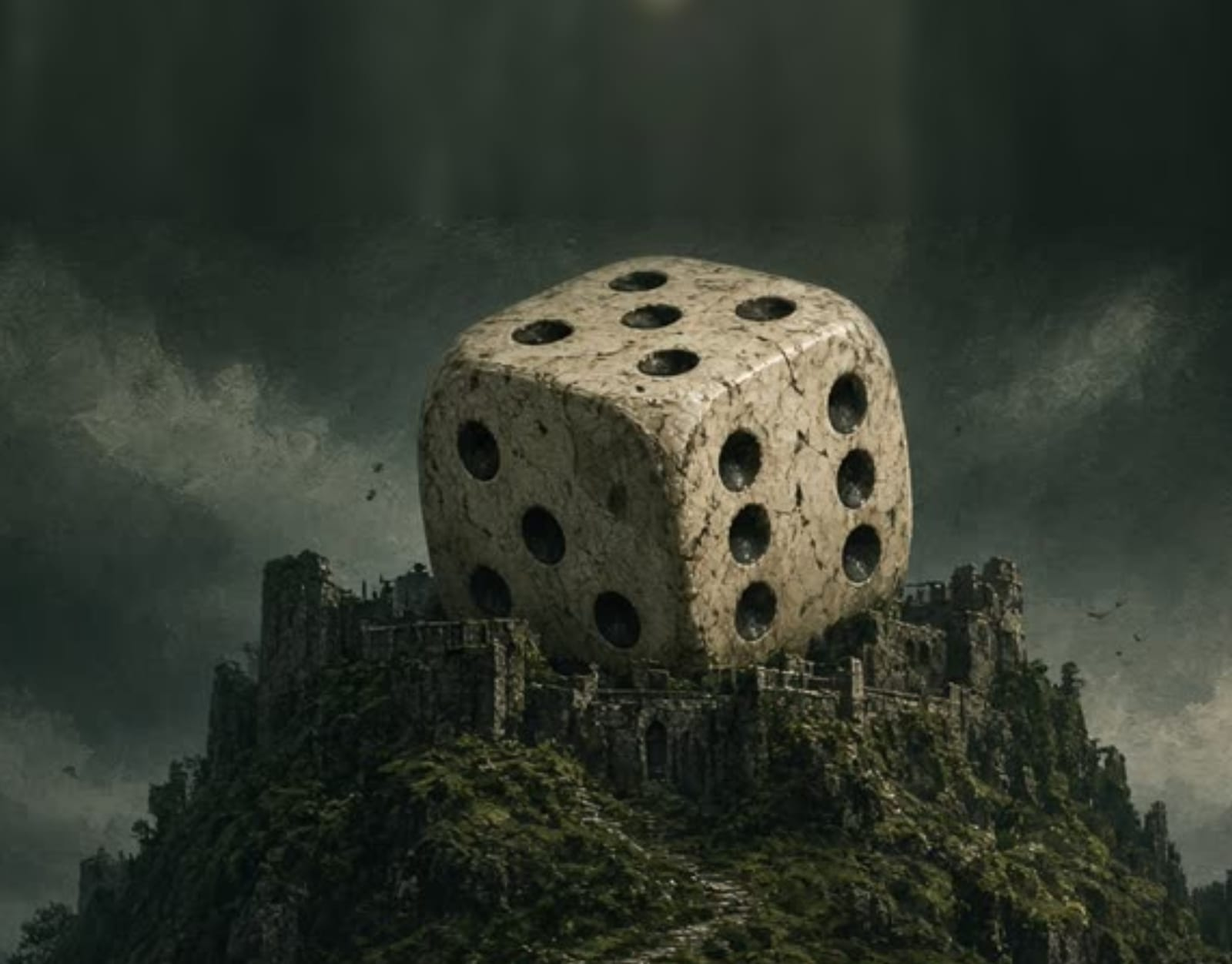
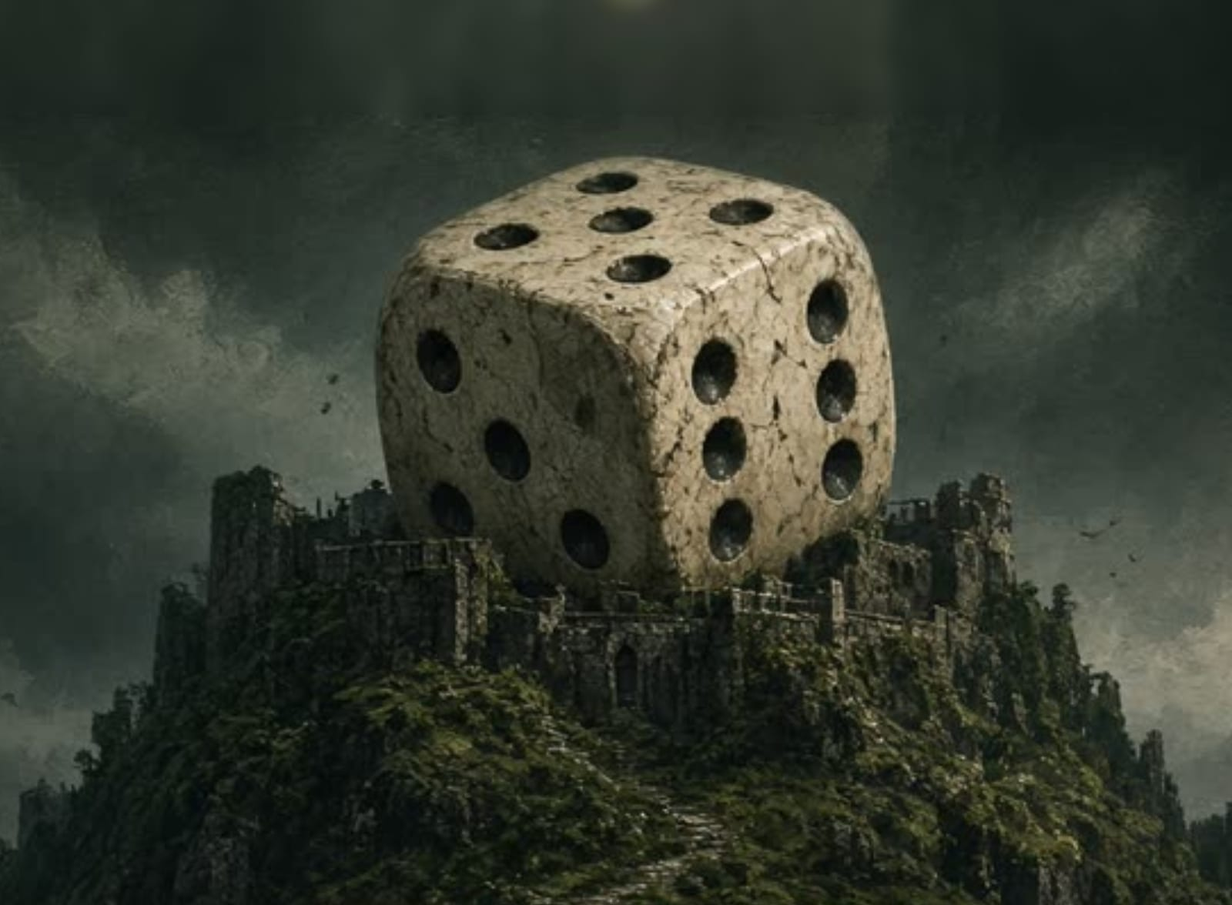
로비를 싱글·멀티·상점 허브로 개편, 키아트 먼저 받고 로딩, 세로 키아트 중앙 정렬·하단 페이드, 가로 배경 두 겹, 제목 윤곽 방식 변경, 배속 버튼 글자 겹침·아이콘 지연 수정
- 로비 허브: 싱글플레이 · 멀티플레이 · 상점 세 버튼(+젬). 누르면 같은 상자 안에서 갈래가 펼쳐진다 — 싱글(인피니티 도전·무한·스테이지 선택·기록),
  멀티(#mp-block). ← 버튼·Esc·앱 뒤로가기는 갈래 → 허브. 돌아올 때는 온 곳의 갈래(결과·스테이지 → 싱글, 대기실·관전 → 멀티). 가로 로비의 두 열 grid 제거
- 로딩: <link rel=preload> 로 화면 비율에 맞는 키아트를 스크립트보다 먼저 받고, game.js 는 그 그림이 뜬 뒤(최대 4초) 에셋 로딩을 시작한다 (그 전엔 진행 막대 숨김)
- 세로 키아트: 제목·주사위가 그림 중앙에 오도록 왼쪽을 더 잘라내고, 위는 하늘 520px, 아래는 거울·블러 대신 바닥색 → 어둠 페이드 400px (1400×2131)
- 가로 키아트: 그림을 높이에 맞춰 통째로(auto 100%) + 양옆은 같은 그림을 흐리고 어둡게 한 2KB 밑바탕(-l-blur). 돌 제목 위 30px 에서 잘라 글자가 비치지 않게
- 제목 윤곽: -webkit-text-stroke(도현체 획 겹침마다 선이 보임) → 사방 1px drop-shadow
- 배속 버튼: 그림 아이콘이 있으면 x1·x2·x3 글자를 화면 폭과 무관하게 숨긴다(#stage.small/tiny 가 font-size 를 되살렸다). 아이콘 23장을 부팅 때 미리 받아 x2 전환 순간 비지 않게
- 테스트 훅 DKlobbyView(view), 캐시버스트 v88, GAME-SPEC 갱신

Claude-Session: https://claude.ai/code/session_01CPtyjXTAGa9quHxiVhte98

diff --git a/game.js b/game.js
@@ -946,7 +946,11 @@ async function loadAssets(onProgress) {
     await new Promise(r => setTimeout(r, 0));
   }
   A.dice = [A.d1, A.d2, A.d3, A.d4, A.d5, A.d6];
-  if (A.uiFrame && !A.uiFrame.missing && A.uiFrame.w > 8) document.body.classList.add('ui-art');   // HUD 프레임 그림이 있으면 CSS 가 border-image 를 쓴다
+  if (A.uiFrame && !A.uiFrame.missing && A.uiFrame.w > 8) {
+    document.body.classList.add('ui-art');   // 그림 아이콘(ui/icon-*.png) 사용
+    // CSS 배경 아이콘은 처음 쓰일 때 받는다 → 배속을 x2 로 바꾸는 순간 아이콘이 잠깐 비었다. 전부 미리 받아 둔다 (23장, 장당 ~5KB)
+    window.__iconCache = ['speed1', 'speed2', 'speed3', 'sound', 'mute', 'chat', 'menu', 'close', 'back', 'gear', 'help', 'chest', 'sell', 'enhance', 'trophy', 'infinity', 'users', 'shop', 'stage', 'copy', 'gem', 'dice', 'wave'].map((n) => { const im = new Image(); im.src = BASE + 'ui/icon-' + n + '.png'; return im; });
+  }
   // 아레나 등 배경이 아직 없는 맵은 지정된 다른 맵 배경으로 폴백
   if (window.DKCONTENT) for (const m of DKCONTENT.maps) {
     if (m.fallbackKey && (!A[m.key] || A[m.key].missing) && A[m.fallbackKey]) A[m.key] = A[m.fallbackKey];
@@ -4195,7 +4199,18 @@ function wakeLockSync(on) {
   } catch (e) { /* 무시 */ }
 }
 document.addEventListener('visibilitychange', () => { if (!document.hidden && S.phase === 'playing') wakeLockSync(true); });
-function gotoLobby() { S.phase = 'lobby'; showScreen('lobby'); }
+// 로비는 허브(싱글·멀티·상점) 아래 갈래(single/multi)가 같은 상자 안에서 펼쳐진다. 어디서 돌아왔는지에 따라 그 갈래를 바로 연다
+let LOBBY_VIEW = 'hub';
+function lobbyShow(view) {
+  view = view === 'single' || view === 'multi' ? view : 'hub';
+  LOBBY_VIEW = view;
+  for (const v of ['hub', 'single', 'multi']) { const el = $('lobby-' + v); if (el) el.classList.toggle('hidden', v !== view); }
+  const box = $('lobby-box'); if (box) box.dataset.view = view;
+  const back = $('lobby-back'); if (back) back.classList.toggle('hidden', view === 'hub');
+  const h = $('lobby-title'); if (h) h.textContent = view === 'single' ? '싱글플레이' : view === 'multi' ? '멀티플레이' : '주사위 성채';
+  const box2 = document.querySelector('#lobby .screen-box'); if (box2) box2.scrollTop = 0;
+}
+function gotoLobby(view) { S.phase = 'lobby'; showScreen('lobby'); lobbyShow(view || 'hub'); }
 function gotoMpRoom() { S.phase = 'mpRoom'; showScreen('mpRoom'); }
 function gotoStageSelect() { S.phase = 'stageSelect'; showScreen('stageSelect'); }
 function gotoShop() { S.phase = 'shop'; showScreen('shop'); }
@@ -4866,6 +4881,7 @@ document.addEventListener('keydown', ev => {
   else if (S.mode === 'infinity' && ev.key >= '1' && ev.key <= '6') upgradeFace(parseInt(ev.key, 10));
   else if (ev.key === 'Escape') {
     if (settingsOpen()) { closeSettings(); return; }
+    if (S.phase === 'lobby' && LOBBY_VIEW !== 'hub') { lobbyShow('hub'); return; }
     const help = $('inf-help');
     if (help && !help.classList.contains('hidden')) { closeInfHelp(); return; } // 도움말이 열려 있으면 먼저 닫는다
     if (menuOpen()) { closeMenu(); return; }
@@ -4926,6 +4942,7 @@ window.DKAPP = {
     if (S.phase === 'stageSelect' || S.phase === 'shop') { const b = document.querySelector(`#${S.phase === 'shop' ? 'shop' : 'stage-select'} .back-btn`); if (b) b.click(); return true; }
     if (S.phase === 'mpRoom') { $('mp-leave').click(); return true; }
     if (S.phase === 'title' || S.phase === 'over' || S.phase === 'win' || S.phase === 'stageClear') { $('ov-btn').click(); return true; }
+    if (S.phase === 'lobby' && LOBBY_VIEW !== 'hub') { lobbyShow('hub'); return true; }   // 갈래 → 허브, 허브에서는 앱 종료(두 번)
     return false;
   },
 };
@@ -4947,7 +4964,7 @@ $('ov-btn').addEventListener('click', () => {
   if (S.phase === 'loading') return;
   audio();
   if (S.phase === 'over' || S.phase === 'win' || S.phase === 'stageClear') {
-    if (S.mode === 'infinity') { if (S.net) mpLeave(); S.mode = 'stage'; S.inf = null; gotoLobby(); } else gotoStageSelect();
+    if (S.mode === 'infinity') { const wasNet = !!S.net; if (S.net) mpLeave(); S.mode = 'stage'; S.inf = null; gotoLobby(wasNet ? 'multi' : 'single'); } else gotoStageSelect();
     return;
   }
   // 타이틀 → 로비 (?start=inf 이면 바로 인피니티, 새로고침 전 방이 있으면 그 방으로)
@@ -4976,8 +4993,11 @@ if ($('enhance-btn')) $('enhance-btn').addEventListener('click', () => {
 });
 if ($('info-close')) $('info-close').addEventListener('click', () => { audio(); S.selTower = null; syncUI(); });
 $('btn-shop').addEventListener('click', () => { audio(); gotoShop(); });
-$('ss-back').addEventListener('click', () => gotoLobby());
-$('shop-back').addEventListener('click', () => gotoLobby());
+$('ss-back').addEventListener('click', () => gotoLobby('single'));
+$('shop-back').addEventListener('click', () => gotoLobby('hub'));
+$('hub-single').addEventListener('click', () => { audio(); lobbyShow('single'); });
+$('hub-multi').addEventListener('click', () => { audio(); lobbyShow('multi'); });
+$('lobby-back').addEventListener('click', () => { audio(); lobbyShow('hub'); });
 // 어두운 배경을 누르면 로비로 (상점에 갇히지 않게)
 ['shop', 'stage-select'].forEach((id) => {
   const el = $(id);
@@ -5009,7 +5029,7 @@ function openMenu() {
 function closeMenu() { $('menu').classList.add('hidden'); setPaused(false); }
 function quitToMenu() {
   closeMenu();
-  if (S.phase === 'spectate') { mpLeave(); S.mode = 'stage'; S.inf = null; gotoLobby(); return; }   // 관전 중 나가기 (기록은 이미 저장됨)
+  if (S.phase === 'spectate') { mpLeave(); S.mode = 'stage'; S.inf = null; gotoLobby('multi'); return; }   // 관전 중 나가기 (기록은 이미 저장됨)
   if (S.phase !== 'playing') return;
   if (S.mode === 'infinity') { S.inf.quit = true; endInfinity(); return; }   // 포기 = 런 종료 (기록 저장)
   gotoStageSelect();
@@ -5569,7 +5589,7 @@ function mpOnClosed(m) {
   const code = m && m.code;
   if (code === 4000) return;                                        // 내가 나간 것 (mpLeave)
   const why = code === 4001 ? '다른 탭에서 같은 좌석으로 들어와 이 탭의 연결이 끊겼습니다' : mpErrText({ code: (m && typeof m.reason === 'string' && m.reason) || CLOSE_CODE_NAME[code] });
-  if (S.phase === 'mpRoom') { mpLeave(); gotoLobby(); mpStatus(why, true); return; }
+  if (S.phase === 'mpRoom') { mpLeave(); gotoLobby('multi'); mpStatus(why, true); return; }
   if (S.net && (S.phase === 'playing' || S.phase === 'spectate')) mpDisconnected(code);
 }
 
@@ -5610,7 +5630,7 @@ function mpInit() {
   $('mp-join').addEventListener('click', () => { audio(); const f = $('mp-join-form'); f.classList.toggle('hidden'); if (!f.classList.contains('hidden')) $('mp-code').focus(); });
   $('mp-join-form').addEventListener('submit', (ev) => { ev.preventDefault(); mpJoin($('mp-code').value); });
   $('mp-code').addEventListener('input', () => { const el = $('mp-code'); el.value = el.value.toUpperCase().replace(/[^A-Z0-9]/g, '').slice(0, 6); });
-  $('mp-leave').addEventListener('click', () => { audio(); mpLeave(); gotoLobby(); });
+  $('mp-leave').addEventListener('click', () => { audio(); mpLeave(); gotoLobby('multi'); });
   $('mp-copy').addEventListener('click', async () => {
     const code = N.code || '';
     try { await navigator.clipboard.writeText(code); $('mp-copy').textContent = '복사됨'; setTimeout(() => { $('mp-copy').textContent = '복사'; }, 1200); }
@@ -5619,7 +5639,7 @@ function mpInit() {
   $('mp-start').addEventListener('click', () => { audio(); if (!N.start()) mpStatus('시작할 수 없습니다', true); });
   $('spec-collapse').addEventListener('click', () => mpSpectateCollapse(true));
   $('spec-pill').addEventListener('click', () => mpSpectateCollapse(false));
-  $('spec-leave').addEventListener('click', () => { audio(); mpLeave(); S.mode = 'stage'; S.inf = null; gotoLobby(); });
+  $('spec-leave').addEventListener('click', () => { audio(); mpLeave(); S.mode = 'stage'; S.inf = null; gotoLobby('multi'); });
   N.on('room', mpOnRoom); N.on('player', mpOnPlayer); N.on('start', mpOnStart);
   N.on('sum', mpOnSum); N.on('end', mpOnEnd); N.on('err', mpOnErr); N.on('net:state', mpOnState); N.on('net:closed', mpOnClosed);
   N.on('watched', mpOnWatched); N.on('queued', mpOnQueued); N.on('matched', mpOnMatched);
@@ -5672,12 +5692,17 @@ function drawLoading(pr) {
 (async () => {
   // 키아트는 로딩 첫 프레임부터 깔린다 (CSS 가 직접 받아온다 — 에셋 로딩을 기다리면 로딩 화면이 검은 화면이 된다)
   // 키아트(산 위 주사위 성)는 CSS 배경으로만 쓴다 — SRCS 에 넣으면 loadAssets 가 두 방향을 다 내려받는다. CSS 는 미디어 쿼리에 맞는 한 장만 받는다
-  const KEYART = { l: BASE + 'ui/title-keyart-l.jpg', p: BASE + 'ui/title-keyart-p.jpg' };   // l: 제목 없는 윗부분(CSS 제목을 얹는다) · p: 그림 안의 돌 제목까지
+  const KEYART = { l: BASE + 'ui/title-keyart-l.jpg', p: BASE + 'ui/title-keyart-p.jpg', blur: BASE + 'ui/title-keyart-l-blur.jpg' };   // l: 제목 없는 윗부분(CSS 제목을 얹는다) · p: 그림 안의 돌 제목까지 · blur: 가로 양옆 밑바탕
   document.body.style.setProperty('--keyart-bg', `linear-gradient(rgba(5,4,3,.45), rgba(5,4,3,.7)), url('${KEYART.l}')`);
-  document.body.style.setProperty('--keyart-title', `linear-gradient(rgba(5,4,3,.10), rgba(5,4,3,.10) 45%, rgba(5,4,3,.82) 100%), url('${KEYART.l}')`);      // 가로·데스크톱 타이틀: 그림 위에 CSS 제목, 아래만 어둡게
+  document.body.style.setProperty('--keyart-title', `linear-gradient(rgba(5,4,3,.10), rgba(5,4,3,.10) 45%, rgba(5,4,3,.82) 100%), url('${KEYART.l}'), url('${KEYART.blur}')`);   // 가로·데스크톱 타이틀: 그림을 높이에 맞춰 통째로 + 양옆은 흐린 밑바탕, 위에 CSS 제목
   document.body.style.setProperty('--keyart-title-p', `linear-gradient(rgba(5,4,3,.04), rgba(5,4,3,.04) 80%, rgba(5,4,3,.55) 100%), url('${KEYART.p}')`);   // 세로 타이틀: 그림의 돌 제목을 그대로, 맨 아래(버튼 자리)만 살짝
   drawLoading(0);
   $('ov-btn').disabled = true;
+  // 키아트가 화면에 뜬 뒤에 에셋 로딩을 시작한다 — 800장 넘는 PNG 요청과 섞이면 폰에서 배경이 한참 검게 남았다. (실패·지연은 4초에서 끊고 진행)
+  { const box = $('overlay-box'); if (box) box.classList.add('preload');
+    const portrait = window.matchMedia && matchMedia('(max-aspect-ratio: 3/4)').matches;
+    await new Promise((res) => { const im = new Image(); let done = false; const fin = () => { if (!done) { done = true; res(); } }; im.onload = () => { (im.decode ? im.decode().catch(() => {}) : Promise.resolve()).then(fin); }; im.onerror = fin; im.src = portrait ? KEYART.p : KEYART.l; setTimeout(fin, 4000); });
+    if (box) box.classList.remove('preload'); }
   try {
     await loadAssets(pr => drawLoading(pr));
   } catch (e) {
@@ -5726,6 +5751,7 @@ function drawLoading(pr) {
   window.DKNETLOG = window.DKNET && DKNET._debug;   // 멀티 소켓 로그
   window.DKplace = tryPlace;                      // 보유 주사위를 석단 idx 에 놓기
   window.DKend = gameEnd;                         // 결과 화면 (레이아웃 테스트)
+  window.DKlobbyView = lobbyShow;                  // 로비 갈래 열기 (테스트: 'hub' | 'single' | 'multi')
   window.DKlobby = () => { if (S.net) mpLeave(); closeInfHelp(); closeSettings(); if (COACH.on) coachStop(false); S.mode = 'stage'; S.inf = null; S.selTower = null; S.heldDie = 0; DIE.state = 'tray'; SLOT.active = false; gotoLobby(); fitStage(); };   // 레이아웃 테스트: 어느 화면에서든 로비로
   window.DKacquire = acquireFx;                   // 획득 연출 미리보기 (콘솔: DKacquire(20))
   window.DKsync = syncUI;

diff --git a/style.css b/style.css
@@ -236,10 +236,12 @@ body { touch-action: manipulation; }
 #ov-btn { font-size: 20px; padding: 12px 44px; letter-spacing: 2px; flex-shrink: 0; min-height: 48px; align-self: center; }
 #ov-btn:disabled { opacity: .7; cursor: default; }
 /* 타이틀·로딩: 상자 없이 키아트 위에 제목·진행 막대·시작 버튼만 (아래쪽 1/4) */
-#overlay.title { background-image: var(--keyart-title, var(--keyart-bg, none)); background-color: #0d0b09; background-position: center 30%; }
+/* 가로·데스크톱: 그림을 높이에 맞춰 통째로 보이고(auto 100%), 남는 양옆은 같은 그림을 흐리고 어둡게 한 밑바탕(-l-blur)으로 채운다 */
+#overlay.title { background-image: var(--keyart-title, var(--keyart-bg, none)); background-color: #0d0b09; background-size: auto, auto 100%, cover; background-position: center, center, center; background-repeat: no-repeat; }
+#overlay-box.preload #ov-load { visibility: hidden; }   /* 키아트가 뜨기 전에는 진행 막대를 숨긴다 (그림 → 막대 순) */
 /* 세로 폰·태블릿(가로:세로 ≤ 3:4): 제목 글자가 새겨진 세로 키아트를 쓰고 CSS 제목·부제는 숨긴다 (그림의 돌 제목이 제목) */
 @media (max-aspect-ratio: 3/4) {
-  #overlay.title { background-image: var(--keyart-title-p, var(--keyart-title, var(--keyart-bg, none))); background-position: center; }
+  #overlay.title { background-image: var(--keyart-title-p, var(--keyart-title, var(--keyart-bg, none))); background-size: cover; background-position: center; }
   #overlay #overlay-box.title #ov-title, #overlay #overlay-box.title #ov-sub { display: none; }   /* 뒤에 오는 '#overlay-box.title #ov-sub {display:flex}' 보다 우선 */
   #overlay #overlay-box.title { padding-bottom: max(5vh, 22px); }   /* 뒤의 '#overlay-box.title {padding: …}' 보다 우선 */
 }
@@ -248,15 +250,18 @@ body { touch-action: manipulation; }
    아래에 작은 영문 부제와 금선. 그라데이션 글자(.wm)와 그림자 필터(h1)를 분리한다 — WebKit 에서 filter 가 background-clip:text 를 깨는 문제 회피.
    기본 #ov-title 의 text-shadow 는 반드시 끈다: 투명 글자 위로 그림자가 비쳐 글자 아랫부분이 검게 탁해진다 */
 #overlay-box.title #ov-title {
-  font-size: clamp(46px, 11vw, 88px); letter-spacing: 6px; line-height: 1.08; margin: 0 0 6px; padding: 0 6px 6px;
+  font-size: clamp(46px, 11vw, 88px); letter-spacing: 6px; line-height: 1.08; margin: 0 0 6px; padding: 0 8px 8px;
   color: #f5d470; text-shadow: none;
-  filter: drop-shadow(0 2px 0 #4a2c0c) drop-shadow(0 2px 0 #2e1c0a) drop-shadow(0 1px 0 #150c04) drop-shadow(0 6px 6px rgba(0,0,0,.55)) drop-shadow(0 0 3px rgba(232,182,74,.28));
+  /* 윤곽은 text-stroke 가 아니라 사방 1px 그림자로 — text-stroke 는 글꼴 획이 겹치는 자리마다 선이 보인다(도현체) */
+  filter: drop-shadow(1px 0 0 #2c1705) drop-shadow(-1px 0 0 #2c1705) drop-shadow(0 1px 0 #2c1705) drop-shadow(0 -1px 0 #2c1705)
+          drop-shadow(0 2px 0 #4a2c0c) drop-shadow(0 2px 0 #2e1c0a) drop-shadow(0 1px 0 #150c04)
+          drop-shadow(0 6px 6px rgba(0,0,0,.55)) drop-shadow(0 0 3px rgba(232,182,74,.28));
 }
 #overlay-box.title #ov-title .wm {
   display: inline-block;
   background: linear-gradient(180deg, #fffdf0 0%, #fbeeb8 16%, #f5d470 26%, #fffbe6 30%, #fffbe6 34%, #f3c650 39%, #e2a63a 56%, #b8802a 76%, #6f4712 100%);
   -webkit-background-clip: text; background-clip: text; color: transparent; -webkit-text-fill-color: transparent;
-  -webkit-text-stroke: 1.5px #2c1705; text-shadow: none;
+  text-shadow: none;
 }
 #ov-sub { display: none; }
 #overlay-box.title #ov-sub {
@@ -270,7 +275,7 @@ body { touch-action: manipulation; }
 #overlay-box.title #ov-load { width: min(300px, 72%); margin-bottom: 10px; }
 #overlay-box.title #ov-load-track { height: 8px; background: rgba(10,7,4,.7); }
 #overlay-box.title #ov-load-txt { font-size: 12px; color: #e9dcc0; text-shadow: 0 1px 0 #000; }
-@media (max-height: 460px) { #overlay-box.title #ov-title { font-size: clamp(30px, 7.5vw, 48px); letter-spacing: 3px; } #overlay-box.title #ov-title .wm { -webkit-text-stroke-width: 1px; } #overlay-box.title #ov-sub { margin-bottom: 8px; } #overlay-box.title { padding-bottom: 12px; } }
+@media (max-height: 460px) { #overlay-box.title #ov-title { font-size: clamp(30px, 7.5vw, 48px); letter-spacing: 3px; } #overlay-box.title #ov-sub { margin-bottom: 8px; } #overlay-box.title { padding-bottom: 12px; } }
 
 
 /* ---- 스타크래프트식 로그·채팅 (스테이지 위 오버레이) ---- */
@@ -1125,6 +1130,19 @@ table.rank tr.me td:first-child { color: var(--gold); font-weight: bold; }
 .settings-card code { color: #ffd6a0; }
 .icon-btn { width: 40px; min-height: 40px; padding: 0; font-size: 20px; line-height: 1; display: inline-flex; align-items: center; justify-content: center; }
 #lobby-settings { position: absolute; top: 10px; right: 10px; z-index: 2; }
+#lobby-back { position: absolute; top: 10px; left: 10px; z-index: 2; }
+/* 로비 허브·갈래: 같은 상자 안에서 한 갈래씩 보인다 */
+.lobby-view { display: flex; flex-direction: column; gap: 6px; min-height: 0; }
+.lobby-view.hidden { display: none; }
+.hub-btns { flex-direction: column; gap: 12px; margin-top: 6px; }
+.hub-btns .big-btn { flex: 1 1 auto; width: 100%; min-height: 76px; font-size: 21px; padding: 14px 18px; letter-spacing: 1px; }
+.hub-btns .big-btn .bi { width: 32px; height: 32px; font-size: 24px; margin-right: 6px; }
+.hub-btns .big-btn small { font-size: 12px; margin-top: 2px; }
+#lobby-hub .gem-chip.big { margin-top: 14px; }
+#lobby-box[data-view=single] h1, #lobby-box[data-view=multi] h1 { font-size: 26px; letter-spacing: 2px; }
+#lobby-single .inf-btns { margin-top: 4px; }
+#lobby-single .lobby-btns .lobby-inf-btn { margin-top: 4px; }
+#lobby-multi #mp-block { margin-top: 4px; }
 #lobby .screen-box { position: relative; }
 #toast { position: fixed; left: 50%; bottom: calc(max(16px, var(--sa-b)) + 24px); transform: translateX(-50%); z-index: 70; padding: 10px 18px; background: rgba(20,14,8,.94); border: 1px solid var(--gold); border-radius: var(--r-pill); color: var(--ink-1); font-size: 14px; white-space: nowrap; box-shadow: var(--elev-2); pointer-events: none; animation: logIn .16s ease-out; }
 #toast.hidden { display: none; }
@@ -1157,7 +1175,7 @@ button, .inf-face, .mini button, .rival, .chip { -webkit-tap-highlight-color: tr
    body.ui-art #hud { border: 12px solid transparent; border-image: url(ui/frame-panel.png) 24 fill / 12px stretch; }
    body.ui-art .big-btn { border: 10px solid transparent; border-image: url(ui/btn-gold.png) 16 fill / 10px stretch; } */
 /* 주사위 슬롯 받침 그림(ui/slot-socket.png)은 쓰지 않는다 — 보류 상태에서 주사위가 받침에 묻혀 안 보였다. CSS 슬롯이 최종 */
-body.ui-art .mini button[data-icon] { background-position: center; background-size: 22px 22px; background-repeat: no-repeat; font-size: 0; }
+body.ui-art .mini button[data-icon] { background-position: center; background-size: 22px 22px; background-repeat: no-repeat; font-size: 0 !important; color: transparent; }   /* !important: #stage.small/tiny 의 font-size 가 이겨 폰에서 x1·x2 글자가 아이콘과 겹쳤다 */
 body.ui-art .mini button[data-icon] svg { display: none; }
 body.ui-art .bi[data-icon] { font-size: 0; background-position: center; background-size: contain; background-repeat: no-repeat; }
 body.ui-art #help-btn { font-size: 0; background: url(ui/icon-help.png) center / 22px 22px no-repeat; border: 0; box-shadow: none; }
@@ -1232,18 +1250,15 @@ body.ui-art .icon-btn[data-icon] { font-size: 0; background-position: center; ba
 
 /* ---- 로비 가로형 (폰 가로: 넓고 낮은 화면) — 스크롤 대신 좌우 두 열로 ---- */
 @media (min-aspect-ratio: 4/3) and (max-height: 640px) {
-  #lobby .screen-box {
-    width: min(96%, 980px); max-width: none;
-    display: grid; grid-template-columns: minmax(0, 1fr) minmax(0, 1.15fr); grid-auto-rows: max-content; align-content: safe center;   /* 넘치면 위부터 스크롤 (center 는 위가 잘린다) */
-    column-gap: 18px; row-gap: 4px; padding: 8px 16px 8px; overflow-y: auto;
-  }
-  #lobby .screen-box > * { grid-column: 1; }
-  #lobby .screen-box > #mp-block { grid-column: 2; grid-row: 1 / span 12; align-self: center; margin-top: 0; }
-  #lobby .screen-box > #lobby-settings { grid-column: auto; }
-  #lobby .lobby-sep { display: none; }
+  #lobby .screen-box { width: min(96%, 900px); max-width: none; padding: 8px 16px 8px; overflow-y: auto; }
+  .hub-btns { flex-direction: row; gap: 10px; margin-top: 4px; }
+  .hub-btns .big-btn { flex: 1 1 180px; width: auto; min-height: 64px; font-size: 17px; padding: 8px 10px; }
+  .hub-btns .big-btn .bi { width: 26px; height: 26px; }
+  #lobby-hub .gem-chip.big { margin-top: 6px; }
+  #lobby-single .lobby-btns .lobby-inf-btn { width: auto; flex: 1 1 200px; }
+  #lobby-single .lobby-btns:not(.inf-btns) { flex-direction: row; }
   #lobby h1 { font-size: 22px; margin-bottom: 0; line-height: 1.1; }
   #lobby .screen-sub { margin: 0 0 4px; font-size: 12px; }
-  #lobby .screen-box > p.screen-sub { display: none; }   /* 소개 문장은 세로에서만 */
   #lobby-inf { display: -webkit-box; -webkit-line-clamp: 2; -webkit-box-orient: vertical; overflow: hidden; }
   #lobby-progress { display: -webkit-box; -webkit-line-clamp: 1; -webkit-box-orient: vertical; overflow: hidden; }
   #lobby .inf-btns { margin-top: 0; }

diff --git a/index.html b/index.html
@@ -7,8 +7,11 @@
 <meta name="apple-mobile-web-app-capable" content="yes" />
 <meta name="mobile-web-app-capable" content="yes" />
 <title>주사위 성채 (Dicekeep)</title>
-<link rel="stylesheet" href="fonts/fonts.css?v=87" />
-<link rel="stylesheet" href="style.css?v=87" />
+<link rel="stylesheet" href="fonts/fonts.css?v=88" />
+<!-- 키아트를 스크립트보다 먼저 받기 시작한다 (세로/가로 중 화면에 맞는 한 장). game.js 는 이 그림이 뜬 뒤에 에셋 로딩을 시작한다 -->
+<link rel="preload" as="image" href="ui/title-keyart-p.jpg" media="(max-aspect-ratio: 3/4)" fetchpriority="high" />
+<link rel="preload" as="image" href="ui/title-keyart-l.jpg" media="(min-aspect-ratio: 3/4)" fetchpriority="high" />
+<link rel="stylesheet" href="style.css?v=88" />
 <link rel="icon" href="ui/gold.png" />
 </head>
 <body>
@@ -52,36 +55,47 @@
     </div>
 
     <div id="lobby" class="screen hidden">
-      <div class="screen-box">
+      <div class="screen-box" id="lobby-box" data-view="hub">
+        <button id="lobby-back" class="back-btn icon-btn hidden" type="button" title="뒤로" aria-label="뒤로" data-icon="back">&#8592;</button>
         <button id="lobby-settings" class="back-btn icon-btn" type="button" title="설정" aria-label="설정" data-icon="gear">&#9881;</button>
-        <h1>주사위 성채</h1>
-        <div class="lobby-btns inf-btns">
-          <button id="btn-inf-clear" class="big-btn primary lobby-inf-btn"><span class="bi" data-icon="trophy">&#127942;</span>인피니티 · 도전<small>101웨이브 완주 = 클리어</small></button>
-          <button id="btn-infinity" class="big-btn inf lobby-inf-btn"><span class="bi" data-icon="infinity">&#8734;</span>인피니티 · 무한<small>끝이 없는 기록 도전</small></button>
-        </div>
-        <div id="lobby-inf" class="screen-sub inf-sub"></div>
-        <!-- 함께하기: 각자 보드, 각자 속도. 서버(Cloudflare Worker + Durable Object)가 방·중계·순위만 맡는다 -->
-        <div id="mp-block">
-          <div class="mp-head"><span class="bi" data-icon="users">&#128101;</span>인피니티 · 함께 <small>2~4인 · 각자 자기 판 · 먼저 완주하면 1위</small></div>
-          <div class="mp-row"><label for="mp-name">이름</label><input id="mp-name" type="text" maxlength="12" placeholder="플레이어" autocomplete="nickname" spellcheck="false"></div>
-          <div class="lobby-btns mp-btns">
-            <button id="mp-create" class="big-btn inf"><span class="bi" data-icon="users">&#128101;</span>방 만들기<small>친구에게 코드 공유</small></button>
-            <button id="mp-join" class="big-btn"><span class="bi" data-icon="enter">&#128273;</span>코드로 참가<small>6자리</small></button>
-            <button id="mp-quick" class="big-btn"><span class="bi" data-icon="speed3">&#9889;</span>빠른 매칭<small>2명 이상 10초 · 4명 즉시</small></button>
+        <h1 id="lobby-title">주사위 성채</h1>
+        <!-- 허브: 싱글 · 멀티 · 상점 세 갈래. 누르면 같은 상자 안에서 그 갈래의 메뉴가 펼쳐진다 (← 또는 뒤로가기 = 허브) -->
+        <div id="lobby-hub" class="lobby-view">
+          <div class="lobby-btns hub-btns">
+            <button id="hub-single" class="big-btn primary"><span class="bi" data-icon="dice">&#127922;</span>싱글플레이<small>인피니티 · 스테이지 50</small></button>
+            <button id="hub-multi" class="big-btn"><span class="bi" data-icon="users">&#128101;</span>멀티플레이<small>2~4인 인피니티 · 먼저 완주하면 1위</small></button>
+            <button id="btn-shop" class="big-btn"><span class="bi" data-icon="shop">&#128722;</span>상점<small>젬 상점</small></button>
           </div>
-          <form id="mp-join-form" class="hidden" autocomplete="off">
-            <input id="mp-code" type="text" maxlength="6" autocapitalize="characters" inputmode="latin" placeholder="ABC123" spellcheck="false" aria-label="방 코드">
-            <button id="mp-join-go" class="big-btn primary" type="submit">참가</button>
-          </form>
-          <div id="mp-status" class="screen-sub"></div>
+          <div class="gem-chip big"><span class="gem-ico">&#128142;</span><b id="lobby-gems">0</b><span class="gem-lbl">젬</span></div>
         </div>
-        <div class="lobby-sep"></div>
-        <div class="lobby-btns">
-          <button id="btn-stage-select" class="big-btn"><span class="bi" data-icon="stage">&#127937;</span>스테이지 선택</button>
-          <button id="btn-shop" class="big-btn"><span class="bi" data-icon="shop">&#128722;</span>상점</button>
+        <div id="lobby-single" class="lobby-view hidden">
+          <div class="lobby-btns inf-btns">
+            <button id="btn-inf-clear" class="big-btn primary lobby-inf-btn"><span class="bi" data-icon="trophy">&#127942;</span>인피니티 · 도전<small>101웨이브 완주 = 클리어</small></button>
+            <button id="btn-infinity" class="big-btn inf lobby-inf-btn"><span class="bi" data-icon="infinity">&#8734;</span>인피니티 · 무한<small>끝이 없는 기록 도전</small></button>
+          </div>
+          <div id="lobby-inf" class="screen-sub inf-sub"></div>
+          <div class="lobby-btns">
+            <button id="btn-stage-select" class="big-btn lobby-inf-btn"><span class="bi" data-icon="stage">&#127937;</span>스테이지 선택<small>50개 스테이지 · 차근차근 배우기</small></button>
+          </div>
+          <div id="lobby-progress" class="screen-sub"></div>
         </div>
-        <div id="lobby-progress" class="screen-sub"></div>
-        <div class="gem-chip big"><span class="gem-ico">&#128142;</span><b id="lobby-gems">0</b><span class="gem-lbl">젬</span></div>
+        <div id="lobby-multi" class="lobby-view hidden">
+          <!-- 함께하기: 각자 보드, 각자 속도. 서버(Cloudflare Worker + Durable Object)가 방·중계·순위만 맡는다 -->
+          <div id="mp-block">
+            <div class="mp-head"><span class="bi" data-icon="users">&#128101;</span>인피니티 · 함께 <small>2~4인 · 각자 자기 판 · 먼저 완주하면 1위</small></div>
+            <div class="mp-row"><label for="mp-name">이름</label><input id="mp-name" type="text" maxlength="12" placeholder="플레이어" autocomplete="nickname" spellcheck="false"></div>
+            <div class="lobby-btns mp-btns">
+              <button id="mp-create" class="big-btn inf"><span class="bi" data-icon="users">&#128101;</span>방 만들기<small>친구에게 코드 공유</small></button>
+              <button id="mp-join" class="big-btn"><span class="bi" data-icon="enter">&#128273;</span>코드로 참가<small>6자리</small></button>
+              <button id="mp-quick" class="big-btn"><span class="bi" data-icon="speed3">&#9889;</span>빠른 매칭<small>2명 이상 10초 · 4명 즉시</small></button>
+            </div>
+            <form id="mp-join-form" class="hidden" autocomplete="off">
+              <input id="mp-code" type="text" maxlength="6" autocapitalize="characters" inputmode="latin" placeholder="ABC123" spellcheck="false" aria-label="방 코드">
+              <button id="mp-join-go" class="big-btn primary" type="submit">참가</button>
+            </form>
+            <div id="mp-status" class="screen-sub"></div>
+          </div>
+        </div>
       </div>
     </div>
 
@@ -251,9 +265,9 @@
   <div id="ghost-ring"></div>
 </div>
 <!-- APP -->
-<script src="music.js?v=87"></script>
-<script src="net.js?v=87"></script>
-<script src="content.js?v=87"></script>
-<script src="game.js?v=87"></script>
+<script src="music.js?v=88"></script>
+<script src="net.js?v=88"></script>
+<script src="content.js?v=88"></script>
+<script src="game.js?v=88"></script>
 </body>
 </html>
